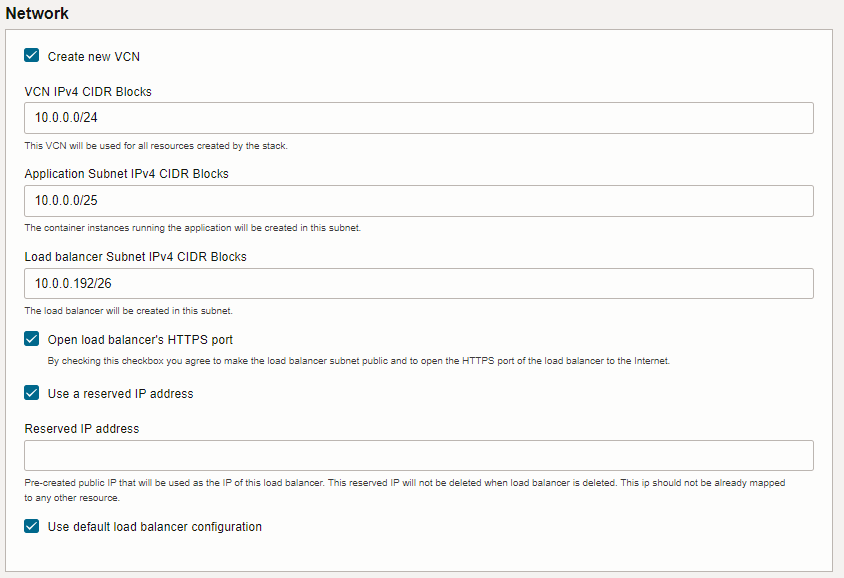
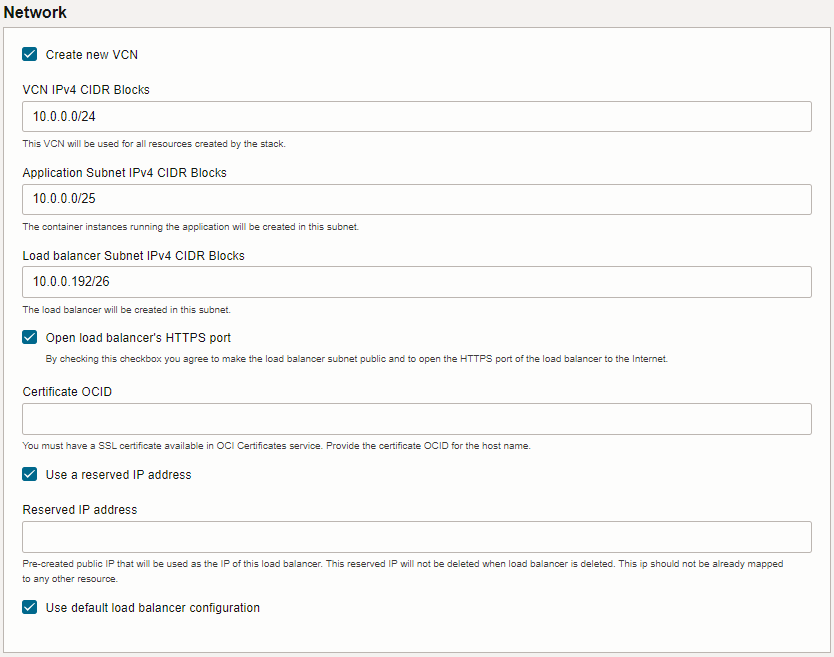
Moved Certificate OCID to Load Balancer configuration, since application URL can use an external DNS provider

Changed region(s): [[0.0, 0.0, 0.9976, 0.9343], [0.0, 0.9654, 0.9976, 0.9965], [0.9353, 0.1557, 0.9976, 0.218]]

diff --git a/usage_instructions.md b/usage_instructions.md
@@ -140,7 +140,6 @@ This is optional but if you have a DNS domain that's managed in OCI you can conf
  - **DNS and Certificate compartement:** select the compartment containing the DNS Zone and the Certificate
  - **DNS zone:** Domain name in which the hostname will be created.
  - **Hostname:** The hostname will be created on the selected Zone and will resolve to the load balancer's IP address.
- - **Certificate OCID:** certificate for the application URL
 
 ## Network
 
@@ -183,6 +182,7 @@ The load balancer subnet can either be a private or a public subnet. Resources i
  - Use existing load balancer subnet
    - **Select the load balancer subnet:** The Load Balancer will be created using this subnet. This list will contain both public and private subnets. Note that if a private subnet is chosen, the Load Balancer will not have a public IP address and will therefore not be directly accessible from the Internet.
  - **Open load balancer's HTTPS port:** By checking this checkbox you agree to make the load balancer subnet public and to open the HTTPS port of the load balancer to the Internet.
+   - **Certificate OCID:** certificate for the application URL, this certificate will be added to the load balancer
    - **Use a reserved IP address:** check this checkbox to use an existing reserved public IP address.
       - **Reserved IP address:** the reserved IP address to use 
 
